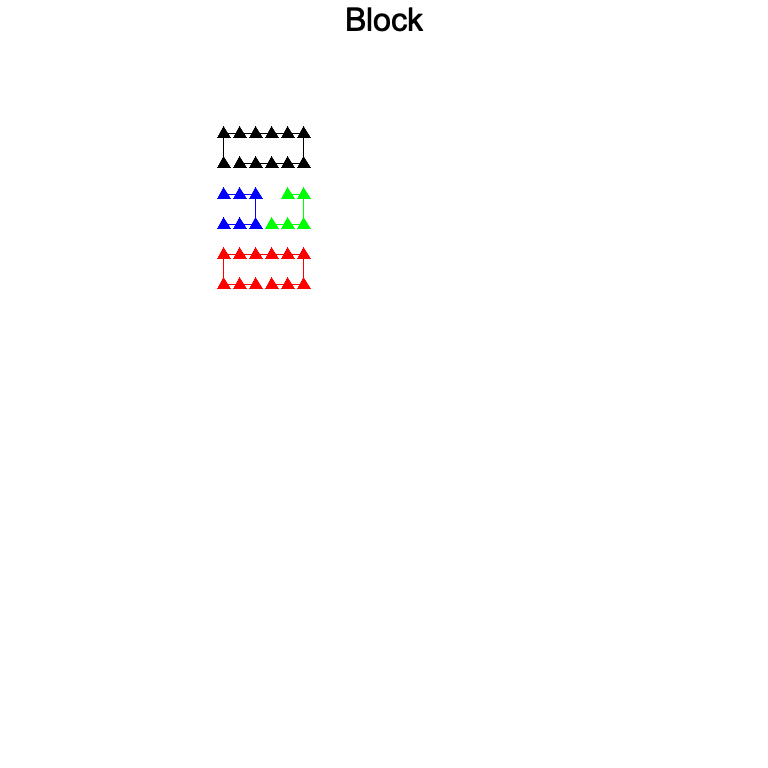
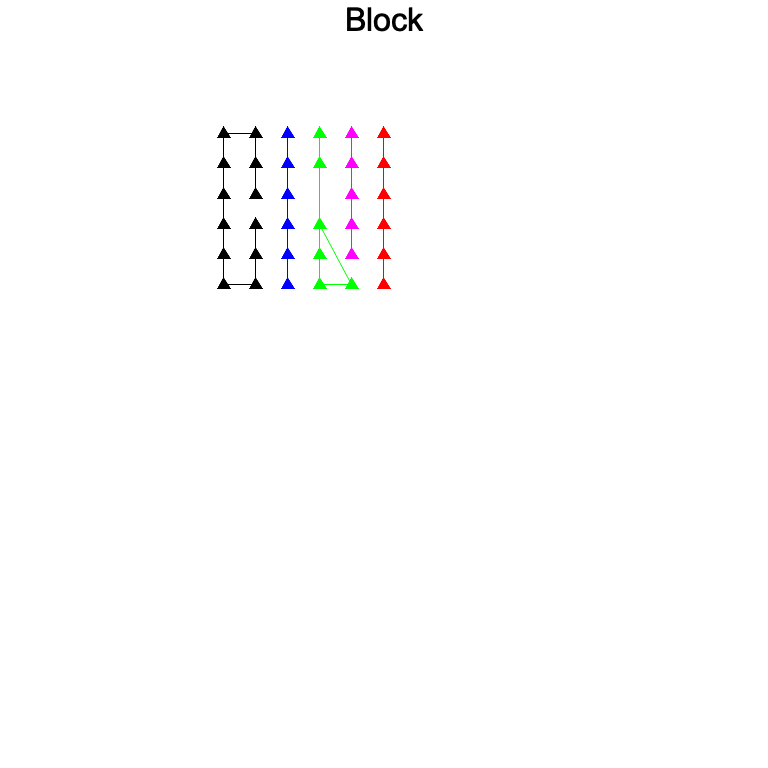
portrait and landscape distance

Changed region(s): [[0.2812, 0.25, 0.5, 0.375], [0.3125, 0.1562, 0.5, 0.2188]]

diff --git a/src/bin/example_4.rs b/src/bin/example_4.rs
@@ -1,0 +1,77 @@
+use salesman::block::Block;
+use std::fs;
+
+fn main() {
+    let filename = "resources/blocks/block00.txt";
+    draw_block(filename);
+}
+
+fn draw_block(filename: &str) {
+    let (nx, ny, shape) = get_shape(filename);
+    let pos_top_left = (-0.5, -0.9);
+    let delta_col = 0.1;
+    let delta_row = 0.1;
+    let block = Block::new_from_bool(pos_top_left, nx, ny, delta_col, delta_row, shape);
+    let points = block.get_points(true);
+    let distance_fn = salesman::distance::landscape_euclidean;
+    let is_loop = true;
+
+    let salesmen_capacities = {
+        let salesman_capacity = 5;
+        let n_strings = block.n_points / salesman_capacity;
+        let leftover = block.n_points % salesman_capacity;
+
+        let result = match leftover {
+            0 => vec![salesman_capacity; n_strings],
+            _ => {
+                let mut tmp = vec![salesman_capacity; n_strings];
+                tmp.push(leftover);
+                tmp
+            }
+        };
+        result
+    };
+    println!("{} points, {:?}", block.n_points, salesmen_capacities);
+    let intensity = 10.0;
+    let seed = None;
+    let order = salesman::string::get_string_order(
+        &points,
+        &salesmen_capacities,
+        &distance_fn,
+        is_loop,
+        intensity,
+        seed,
+    );
+    let is_loop = true;
+    let display_string = true;
+    let filename = "example_4/block";
+    let caption = "Block";
+    salesman::plot::plot_strings(
+        &points,
+        &order,
+        &salesmen_capacities,
+        is_loop,
+        display_string,
+        filename,
+        caption,
+    );
+}
+
+fn get_shape(filename: &str) -> (usize, usize, Vec<bool>) {
+    let input = fs::read_to_string(filename).unwrap();
+    let mut shape = vec![];
+    let mut nx = 0;
+    let mut ny = 0;
+    for line in input.lines() {
+        nx = line.len();
+        for c in line.chars() {
+            match c {
+                '0' => shape.push(false),
+                '1' => shape.push(true),
+                _ => {}
+            }
+        }
+        ny += 1;
+    }
+    (nx, ny, shape)
+}

diff --git a/src/string.rs b/src/string.rs
@@ -5,9 +5,10 @@
 /// let points = vec![(-0.5, -0.5), (-0.6, -0.5), (-0.6, -0.4), (0.5, 0.5), (0.6, 0.5), (0.6, 0.6)];
 /// let salesmen_capacities = vec![3, 3];
 /// let distance_fn = salesman::distance::euclidean;
+/// let is_loop = false;
 /// let intensity = 10.0;
 /// let seed = Some(42);
-/// let order = get_string_order(&points, &salesmen_capacities, &distance_fn, intensity, seed);
+/// let order = get_string_order(&points, &salesmen_capacities, &distance_fn, is_loop, intensity, seed);
 /// assert!(&order[0..3] == &vec![0, 1, 2] || &order[0..3] == &vec![2, 1, 0]);
 /// assert!(&order[3..6] == &vec![3, 4, 5] || &order[3..6] == &vec![5, 4, 3]);
 /// ```
@@ -15,6 +16,7 @@ pub fn get_string_order<F>(
     points: &[(f32, f32)],
     salesmen_capacities: &[usize],
     distance_fn: &F,
+    is_loop: bool,
     intensity: f32,
     seed: Option<u64>,
 ) -> Vec<usize>
@@ -32,7 +34,7 @@ where
         }
         let distances = crate::distance::make_distance_vec(&filtered_points, distance_fn);
         let slice_order =
-            crate::anneal::shortest_path_order(&filtered_points, &distances, 5, false, seed);
+            crate::anneal::shortest_path_order(&filtered_points, &distances, 1, is_loop, seed);
         clustered_order = crate::permute::permute_slice(
             &clustered_order,
             &(range_start..range_end).collect::<Vec<usize>>().to_vec(),

diff --git a/src/bin/example_3.rs b/src/bin/example_3.rs
@@ -7,20 +7,22 @@ fn main() {
     let n_cols = 6;
     let n_rows = 6;
     let delta_col = 0.1;
-    let delta_row = 0.05;
+    let delta_row = 0.1;
     let mut shape = vec![true; n_cols * n_rows];
     shape[15] = false;
     let block = Block::new_from_bool(pos_top_left, n_cols, n_rows, delta_col, delta_row, shape);
     let points = block.get_points(true);
-    let distance_fn = salesman::distance::euclidean;
+    let distance_fn = salesman::distance::portrait_euclidean;
+    let is_loop = false;
 
-    let salesmen_capacities = vec![12, 12, 6, 5];
+    let salesmen_capacities = vec![12, 6, 6, 6, 5];
     let intensity = 10.0;
     let seed = None;
     let order = salesman::string::get_string_order(
         &points,
         &salesmen_capacities,
         &distance_fn,
+        is_loop,
         intensity,
         seed,
     );

diff --git a/src/cluster.rs b/src/cluster.rs
@@ -196,9 +196,10 @@ where
 /// use salesman::cluster::cluster_order;
 /// let points = vec![(-0.5, -0.5), (0.5, 0.5), (-0.6, -0.5), (0.5, 0.6)];
 /// let salesmen_capacities = vec![2, 2];
+/// let distance_fn = salesman::distance::euclidean;
 /// let intensity = 10.0;
 /// let seed = None;
-/// let order = cluster_order(&points, &salesmen_capacities, intensity, seed);
+/// let order = cluster_order(&points, &salesmen_capacities, &distance_fn, intensity, seed);
 /// assert!(order[0..2].contains(&0));
 /// assert!(order[0..2].contains(&2));
 /// assert!(order[2..4].contains(&1));

diff --git a/src/distance.rs b/src/distance.rs
@@ -4,6 +4,18 @@ pub fn euclidean(p: (f32, f32), q: (f32, f32)) -> f32 {
     (dx * dx + dy * dy).sqrt()
 }
 
+pub fn portrait_euclidean(p: (f32, f32), q: (f32, f32)) -> f32 {
+    let dx = (p.0 - q.0) * 1.;
+    let dy = (p.1 - q.1) * 10.;
+    (dx * dx + dy * dy).sqrt()
+}
+
+pub fn landscape_euclidean(p: (f32, f32), q: (f32, f32)) -> f32 {
+    let dx = (p.0 - q.0) * 10.;
+    let dy = (p.1 - q.1) * 1.;
+    (dx * dx + dy * dy).sqrt()
+}
+
 pub fn make_distance_vec<F>(points: &[(f32, f32)], distance_fn: &F) -> Vec<f32>
 where
     F: Fn((f32, f32), (f32, f32)) -> f32,

diff --git a/src/bin/example_2.rs b/src/bin/example_2.rs
@@ -5,12 +5,14 @@ fn main() {
     let intensity = 10.0;
     let points = salesman::example::rand_points(num_points, seed);
     let distance_fn = salesman::distance::euclidean;
+    let is_loop = false;
 
     let salesmen_capacities = [12, 12, 10, 8, 8, 6, 4];
     let order = salesman::string::get_string_order(
         &points,
         &salesmen_capacities,
         &distance_fn,
+        is_loop,
         intensity,
         seed,
     );

diff --git a/src/bin/example_1.rs b/src/bin/example_1.rs
@@ -5,12 +5,13 @@ fn main() {
     let intensity = 10.0;
     let points = salesman::example::rand_points(num_points, seed);
     let distance_fn = salesman::distance::euclidean;
-
+    let is_loop = false;
     let salesmen_capacities = [num_points / 6; 6];
     let order = salesman::string::get_string_order(
         &points,
         &salesmen_capacities,
         &distance_fn,
+        is_loop,
         intensity,
         seed,
     );

diff --git a/src/bin/example_0.rs b/src/bin/example_0.rs
@@ -12,10 +12,13 @@ fn main() {
     ];
     let salesmen_capacities = vec![3, 3];
     let distance_fn = salesman::distance::euclidean;
+    let is_loop = false;
+
     let order = salesman::string::get_string_order(
         &points,
         &salesmen_capacities,
         &distance_fn,
+        is_loop,
         intensity,
         seed,
     );
